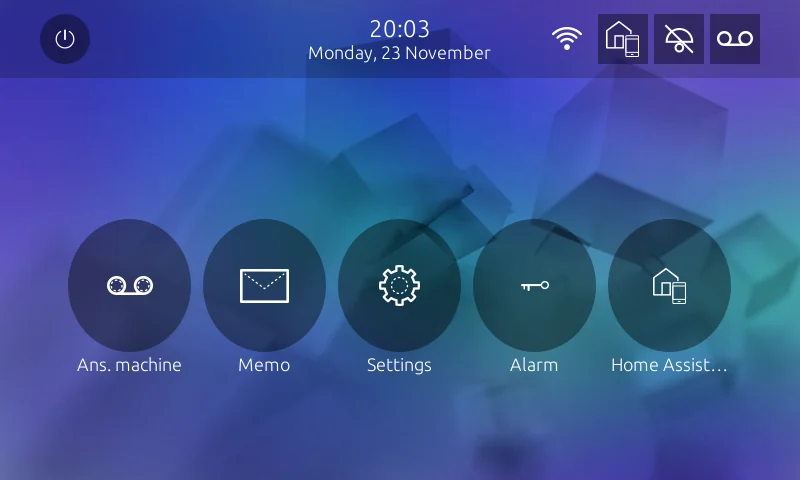
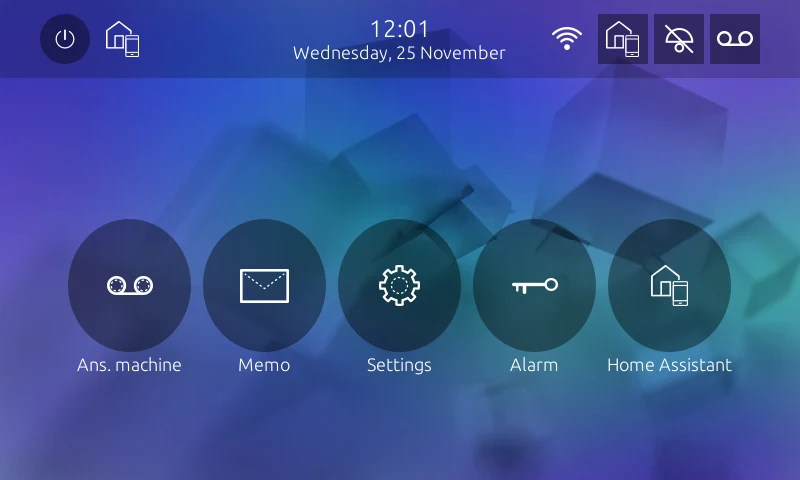
docs: renew the pictures of the home page and the Integration tab
The three pictures still showed 2.9.1: a tab called "Home Assistant" with
two switches, small button icons, the label cut to "Home Assist..." and no
house symbol beside the power button.

The new pictures are rendered from the 2.9.2 pages on the Qt 4.8 probe with
the 1.7.19 skin, in English on the same background as the other pictures.
They are not captures from a station.

diff --git a/docs/display.md b/docs/display.md
@@ -473,7 +473,7 @@ maintenance operations the agent has enabled are offered.
 
 <table>
   <tr>
-    <td align="center"><strong>Integration tab</strong><br><img src="images/readme/display-settings-home-assistant-en.webp" alt="Station Settings, Integration tab with SSH, Status messages, Reboot station and Remove agent" width="360"></td>
+    <td align="center"><strong>Integration tab</strong><br><img src="images/readme/display-settings-home-assistant-en.webp" alt="Station Settings, Integration tab: connection status block, the switches Status messages, Keep page open in standby, Page change and SSH, and the buttons Reboot station and Remove agent" width="360"></td>
     <td align="center"><strong>Generals: Tone buttons</strong><br><img src="images/readme/display-settings-tone-buttons-en.webp" alt="Station Settings, Generals tab with the Tone buttons switch" width="360"></td>
   </tr>
 </table>
